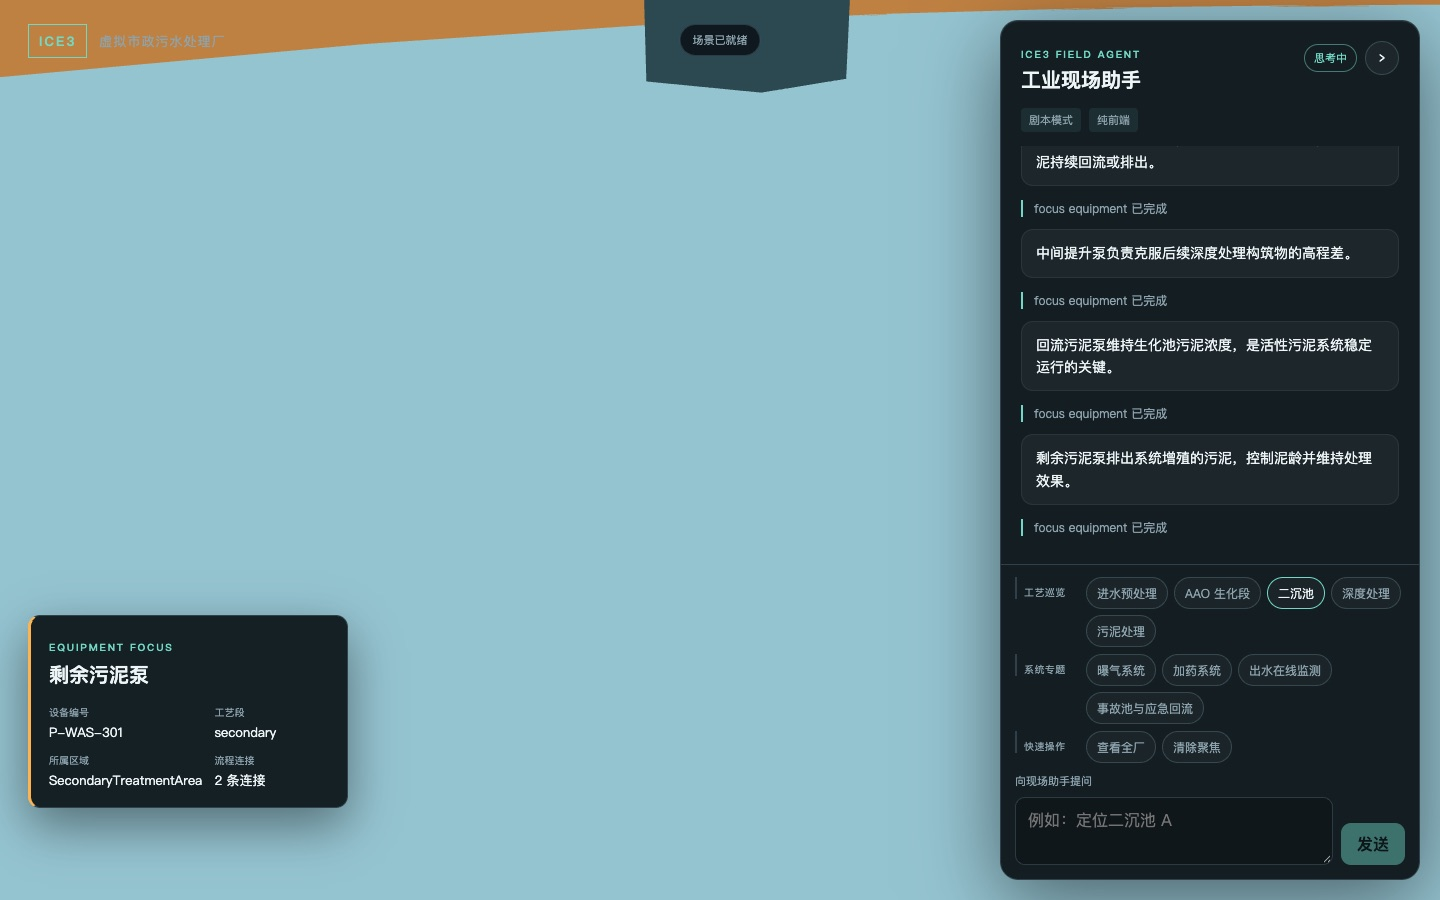
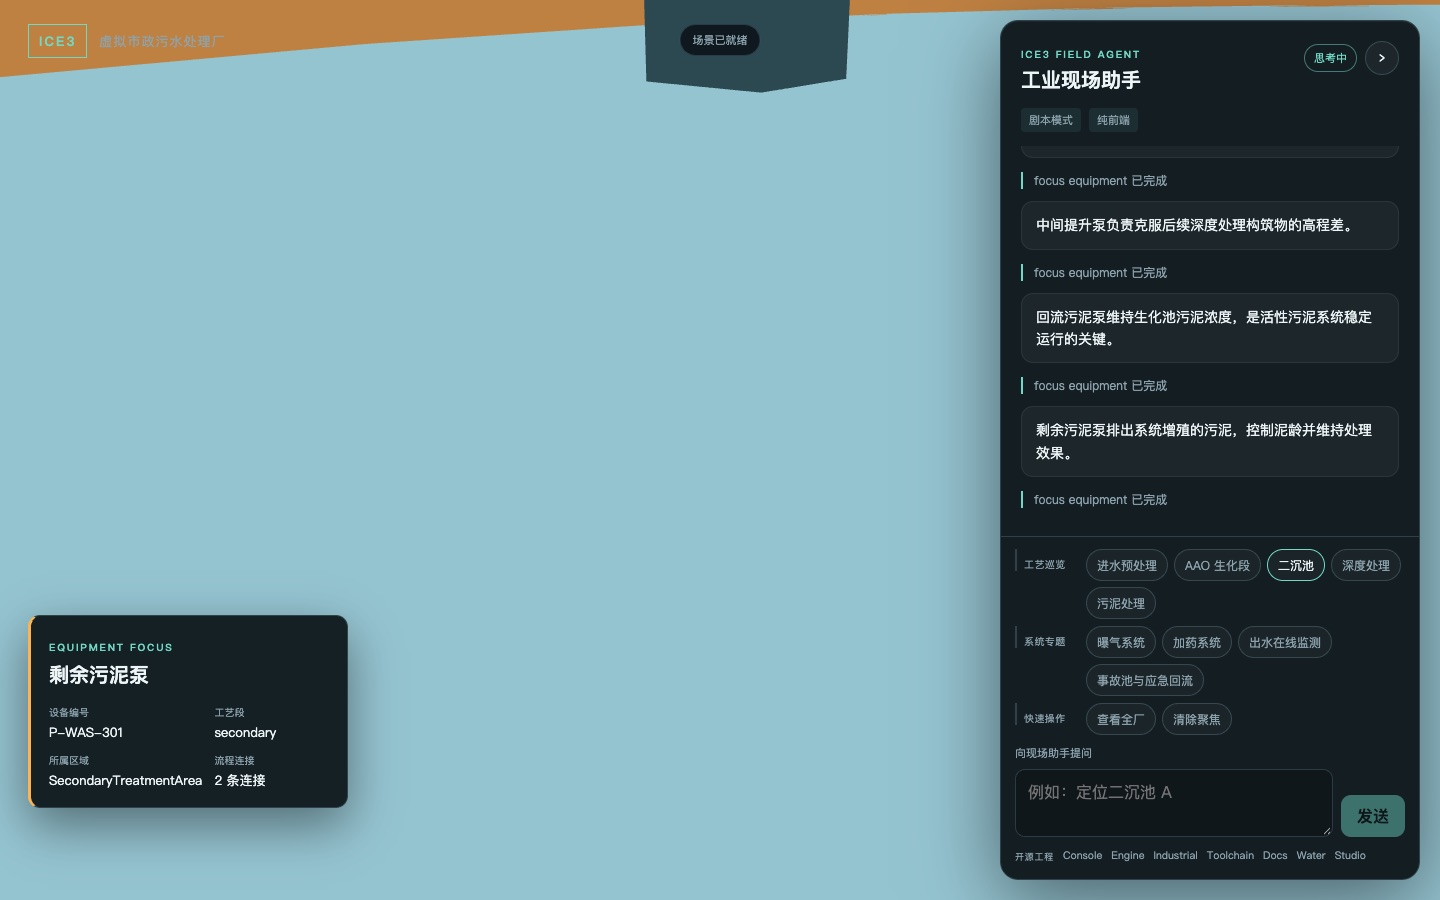
feat(agent-console): expose related project links

Changed region(s): [[0.7188, 0.1556, 0.9688, 0.5911], [0.6875, 0.6222, 1.0, 0.9644]]

diff --git a/src/view/chat-panel.ts b/src/view/chat-panel.ts
@@ -9,6 +9,37 @@ interface LocalUserMessage {
   readonly text: string;
 }
 
+const PROJECT_LINKS = [
+  {
+    label: 'Console',
+    url: 'https://github.com/ice-3d/ice3-agent-console',
+  },
+  {
+    label: 'Engine',
+    url: 'https://github.com/ice-3d/ice3-engine',
+  },
+  {
+    label: 'Industrial',
+    url: 'https://github.com/ice-3d/ice3-industrial',
+  },
+  {
+    label: 'Toolchain',
+    url: 'https://github.com/ice-3d/ice3-toolchain',
+  },
+  {
+    label: 'Docs',
+    url: 'https://github.com/ice-3d/ice3-doc',
+  },
+  {
+    label: 'Water',
+    url: 'https://github.com/ice-3d/ice3-water-demo',
+  },
+  {
+    label: 'Studio',
+    url: 'https://github.com/ice-3d/ice3-studio',
+  },
+] as const;
+
 export class ChatPanel {
   readonly element: HTMLElement;
   readonly form: HTMLFormElement;
@@ -51,6 +82,14 @@ export class ChatPanel {
             rows="2" placeholder="例如：定位二沉池 A"></textarea>
           <button type="submit" data-role="composer-submit">发送</button>
         </form>
+        <nav class="project-links" data-role="project-links"
+          aria-label="ICE3 开源工程">
+          <span class="project-links__label">开源工程</span>
+          ${PROJECT_LINKS.map((project) => (
+            `<a href="${project.url}" target="_blank"
+              rel="noopener noreferrer">${project.label}</a>`
+          )).join('')}
+        </nav>
       </div>
     `;
     host.append(this.element);

diff --git a/tests/chat-panel.test.ts b/tests/chat-panel.test.ts
@@ -62,3 +62,38 @@ test('collapses and restores the conversation panel', () => {
   toggle.click();
   expect(panel.element.dataset.collapsed).toBe('false');
 });
+
+test('links to every public ICE3 project from the conversation panel', () => {
+  const dom = new JSDOM('<main></main>');
+  const panel = new ChatPanel(
+    dom.window.document.querySelector('main') as unknown as HTMLElement,
+  );
+  const navigation = panel.element.querySelector<HTMLElement>(
+    '[data-role="project-links"]',
+  );
+  const links = [...navigation!.querySelectorAll<HTMLAnchorElement>('a')];
+
+  expect(navigation?.getAttribute('aria-label')).toBe('ICE3 开源工程');
+  expect(links.map((link) => link.textContent)).toEqual([
+    'Console',
+    'Engine',
+    'Industrial',
+    'Toolchain',
+    'Docs',
+    'Water',
+    'Studio',
+  ]);
+  expect(links.map((link) => link.href)).toEqual([
+    'https://github.com/ice-3d/ice3-agent-console',
+    'https://github.com/ice-3d/ice3-engine',
+    'https://github.com/ice-3d/ice3-industrial',
+    'https://github.com/ice-3d/ice3-toolchain',
+    'https://github.com/ice-3d/ice3-doc',
+    'https://github.com/ice-3d/ice3-water-demo',
+    'https://github.com/ice-3d/ice3-studio',
+  ]);
+  for (const link of links) {
+    expect(link.target).toBe('_blank');
+    expect(link.rel).toBe('noopener noreferrer');
+  }
+});

diff --git a/e2e/responsive.spec.ts b/e2e/responsive.spec.ts
@@ -26,3 +26,31 @@ test('keeps scripts above the composer inside the conversation panel', async ({
   expect(quickBox!.y + quickBox!.height)
     .toBeLessThanOrEqual(composerBox!.y);
 });
+
+test('keeps all ICE3 project links visible below the composer', async ({
+  page,
+}) => {
+  await page.setViewportSize({ width: 390, height: 844 });
+  await page.goto('http://127.0.0.1:8110/?demo=1&autoplay=0');
+  await expect(page.locator('[data-role="scene-status"]'))
+    .toHaveText('场景已就绪', { timeout: 60_000 });
+
+  const panel = page.locator('.conversation-panel');
+  const composer = page.locator('[data-role="composer"]');
+  const projects = page.locator('[data-role="project-links"]');
+  await expect(projects).toBeVisible();
+  await expect(projects.locator('a')).toHaveCount(7);
+
+  const panelBox = await panel.boundingBox();
+  const composerBox = await composer.boundingBox();
+  const projectsBox = await projects.boundingBox();
+  expect(panelBox).not.toBeNull();
+  expect(composerBox).not.toBeNull();
+  expect(projectsBox).not.toBeNull();
+  expect(projectsBox!.y).toBeGreaterThanOrEqual(
+    composerBox!.y + composerBox!.height,
+  );
+  expect(projectsBox!.y + projectsBox!.height).toBeLessThanOrEqual(
+    panelBox!.y + panelBox!.height,
+  );
+});

diff --git a/public/styles.css b/public/styles.css
@@ -291,6 +291,34 @@ button {
   cursor: wait;
 }
 
+.project-links {
+  display: flex;
+  flex-wrap: wrap;
+  align-items: center;
+  gap: 4px 9px;
+  min-height: 18px;
+  color: var(--muted);
+}
+
+.project-links__label {
+  color: var(--hint);
+  font-size: 9px;
+  letter-spacing: 0.08em;
+}
+
+.project-links a {
+  color: var(--muted);
+  font-size: 10.5px;
+  line-height: 1.4;
+  text-decoration: none;
+}
+
+.project-links a:hover,
+.project-links a:focus-visible {
+  color: var(--accent);
+  text-decoration: underline;
+}
+
 .equipment-card {
   position: absolute;
   z-index: 4;
